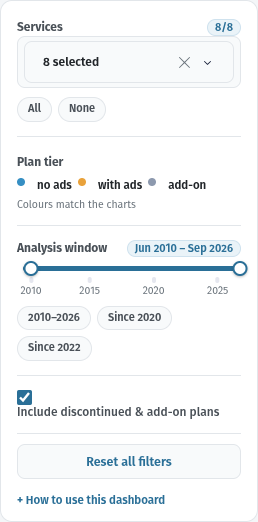
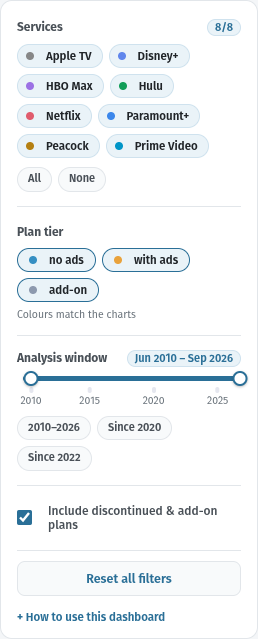
Replace the services dropdown with a direct checklist
The dropdown was the wrong control for eight fixed items: its trigger is a
CSS grid with hard-coded pixel columns, and the popup inherited a 200px
max-height with overflow:hidden, so four of the eight services (Netflix,
Paramount+, Peacock, Prime Video) were clipped and unreachable.

Eight chips now sit directly in the rail, each carrying the same brand
colour dot used in the charts, with All/None shortcuts beside them. The
checked state is solid brand dot + accent border; unchecked is a hollow
dot, dashed border and reduced opacity, so the selection is readable at a
glance without opening anything.

Dash renders each checklist option as <label class=dash-options-list-option>,
i.e. the chip label IS the option, so the wrapper reset had to avoid
!important and no display:contents - both of which silently stripped the
chip borders (and collapsed the switch-row label to zero height).

Removed ~90 lines of now-dead dropdown CSS, including the portal popup rules.

Changed region(s): [[0.062, 0.0307, 0.9612, 0.6743], [0.062, 0.705, 0.8992, 0.9195], [0.062, 0.9502, 0.6512, 0.9808]]

diff --git a/app/assets/style.css b/app/assets/style.css
@@ -105,16 +105,20 @@ body {
   padding: 0 !important;
   box-shadow: none !important;
 }
-.rail .dash-options-list-option,
+/* Dash renders every option as <label class="dash-options-list-option">, i.e. the
+   chip label IS the option. So the wrapper must be reset, but the label must
+   not be, otherwise the chips lose their own borders. .dash-options-list-option
+   therefore gets only background/padding reset here, and chips set their own
+   border on a more specific selector below. */
 .rail .dash-options-list-option-text {
   border-width: 0 !important;
   border-style: none !important;
   background: transparent !important;
   padding: 0 !important;
 }
-/* tier chips style their label; the option wrapper must not add a box */
-.tier-chips .dash-options-list-option,
-.switch-row .dash-options-list-option { display: contents; }
+
+/* The option <label> is the chip itself, so it must stay a real box.
+   (No display:contents here - it collapsed the switch-row label to 0 height.) */
 
 /* the native range inputs Dash renders are invisible but paint a white track */
 /* Dash overlays two native range inputs (one per handle) that paint a white
@@ -129,57 +133,55 @@ body {
 /* NB: use border-width:0 rather than `border: none`, because `none` leaves the
    computed width at `medium` (1px) and later !important rules then re-show it. */
 .rail .dash-checklist,
-.rail .dash-checklist-group,
-.rail .dash-dropdown-content,
-.rail .dash-dropdown-menu {
+.rail .dash-checklist-group {
   background: transparent !important;
   border-width: 0 !important;
   border-style: none !important;
   box-shadow: none !important;
 }
-.rail .dash-dropdown,
-.rail .dash-dropdown-wrapper {
-  background: var(--surface-2) !important;
-  border: 1px solid var(--border) !important;
-  border-radius: 8px !important;
-  box-shadow: none !important;
-  padding: 4px 6px;
+/* Services checklist — 8 fixed items, so show them all at once with the same
+   brand colour used in every chart. A dropdown would only hide them. */
+.service-checks {
+  display: flex; flex-wrap: wrap; gap: 6px; margin-top: 8px;
 }
-.rail .dash-dropdown:hover { border-color: var(--accent) !important; }
-/* the vertical scrollbar inside the multi-select pill area */
-/* ---------------------------------------------------------------
-   Services picker
-   Dash renders the trigger as a CSS grid with hard-coded pixel
-   columns (value 44px, count 73px, clear 16px, arrow 15px), so the
-   selected-value pills were squeezed into a 44px scrolling column.
-   There are only 8 services, so show a single summary line instead of
-   listing every pill; the full searchable list is one click away.
-   --------------------------------------------------------------- */
-.rail .dash-dropdown,
-.rail .dash-dropdown-wrapper { max-width: 100%; min-width: 0; }
-
-.rail .dash-dropdown-grid-container {
-  display: flex !important;
-  align-items: center;
-  gap: 8px;
-  grid-template-columns: none !important;
-  width: 100%;
+.service-checks label {
+  display: inline-flex; align-items: center; gap: 6px;
+  font-size: 11.5px; font-weight: 600; color: var(--text-muted);
+  background: var(--surface-2); border: 1px solid var(--border);
+  border-radius: 999px; padding: 4px 10px 4px 8px;
+  cursor: pointer; user-select: none; margin: 0;
+  transition: border-color 0.15s, color 0.15s, background 0.15s;
 }
-/* pills duplicate the "N selected" count, and never fit in 210px */
-.rail .dash-dropdown-value { display: none !important; }
-.rail .dash-dropdown-value-count {
-  flex: 1 1 auto;
+.service-checks input { display: none; }
+.service-checks label::before {
+  content: ""; width: 8px; height: 8px; border-radius: 50%;
+  background: var(--border-strong); flex: 0 0 auto;
+  transition: background 0.15s;
+}
+.service-checks label:hover { border-color: var(--accent); color: var(--text); }
+/* unchecked = clearly off: hollow dot, dashed border, muted text */
+.service-checks label:not(:has(input:checked)) {
+  border-style: dashed;
+  opacity: 0.72;
+}
+.service-checks label:not(:has(input:checked))::before {
   background: transparent !important;
-  color: var(--text) !important;
-  font-size: 12px;
-  font-weight: 600;
-  padding: 0;
-  white-space: nowrap;
-  overflow: hidden;
-  text-overflow: ellipsis;
+  border: 1.5px solid var(--text-muted);
+  box-sizing: border-box;
 }
-.rail .dash-dropdown-clear { flex: 0 0 auto; color: var(--text-muted) !important; }
-.rail .dash-dropdown-grid-container > svg { flex: 0 0 auto; }
+/* checked = solid brand dot, accent border, filled background */
+.service-checks label:has(input:checked) {
+  color: var(--text); border-color: var(--accent-border);
+  background: var(--accent-soft);
+}
+.service-checks label:nth-child(1):has(input:checked)::before { background: #878787; }
+.service-checks label:nth-child(2):has(input:checked)::before { background: #6086EC; }
+.service-checks label:nth-child(3):has(input:checked)::before { background: #9C71E4; }
+.service-checks label:nth-child(4):has(input:checked)::before { background: #119D58; }
+.service-checks label:nth-child(5):has(input:checked)::before { background: #E05C6D; }
+.service-checks label:nth-child(6):has(input:checked)::before { background: #3C87EB; }
+.service-checks label:nth-child(7):has(input:checked)::before { background: #B58012; }
+.service-checks label:nth-child(8):has(input:checked)::before { background: #0095C7; }
 
 /* quick-action chips */
 .quick { display: flex; flex-wrap: wrap; gap: 6px; margin-top: 9px; }
@@ -299,77 +301,6 @@ footer {
   margin-top: 26px; padding-top: 12px;
   border-top: 1px solid var(--border-strong);
   font-size: 11.5px; color: var(--text-muted); max-width: 1100px;
-}
-
-/* Dash 4 dropdown (dash-dropdown-* classes), dark theme */
-body.dark .dash-dropdown,
-body.dark .dash-dropdown-wrapper,
-body.dark .dash-dropdown-trigger,
-body.dark .dash-dropdown-value,
-body.dark .dash-dropdown-value-item {
-  background: var(--surface-2) !important;
-  color: var(--text) !important;
-  border-color: var(--border) !important;
-}
-body.dark .dash-dropdown-value-count {
-  background: var(--accent-soft) !important;
-  color: var(--text-dim) !important;
-}
-body.dark .dash-dropdown-clear { color: var(--text-muted) !important; }
-body.dark .dash-dropdown-content,
-body.dark .dash-dropdown-menu,
-body.dark .dash-dropdown-options,
-body.dark .dash-dropdown-option,
-body.dark .dash-dropdown-search-container,
-body.dark .dash-dropdown-search {
-  background: var(--surface-2) !important;
-  color: var(--text) !important;
-  border-color: var(--border) !important;
-}
-body.dark .dash-dropdown-option:hover,
-body.dark .dash-dropdown-option[aria-selected="true"] {
-  background: var(--accent-soft) !important;
-}
-
-/* Dash 4 dropdown popup. It renders in a portal at the end of <body>, so it is
-   NOT a descendant of .dash-dropdown and cannot be reached that way. It is
-   told apart from a Checklist (also role=listbox) by the .dash-dropdown-content
-   wrapper that only the popup has. */
-body.dark .dash-dropdown-content,
-.dash-dropdown-content {
-  background: var(--surface) !important;
-  border: 1px solid var(--border-strong) !important;
-  border-radius: 10px !important;
-  box-shadow: 0 10px 28px rgba(0, 0, 0, 0.45) !important;
-  padding: 6px !important;
-  overflow: hidden;
-}
-.dash-dropdown-content [role="listbox"] {
-  background: transparent !important;
-  border: none !important;
-  padding: 0 !important;
-}
-.dash-dropdown-content .dash-options-list-option,
-.dash-dropdown-content .dash-options-list-option-text {
-  background: transparent !important;
-  color: var(--text) !important;
-  border-width: 0 !important;
-  border-radius: 6px !important;
-  font-size: 12.5px !important;
-}
-.dash-dropdown-content .dash-options-list-option {
-  padding: 6px 9px !important;
-}
-.dash-dropdown-content .dash-options-list-option:hover,
-.dash-dropdown-content .dash-options-list-option[aria-selected="true"] {
-  background: var(--accent-soft) !important;
-}
-.dash-dropdown-search-container,
-.dash-dropdown-search {
-  background: var(--surface-2) !important;
-  color: var(--text) !important;
-  border-color: var(--border) !important;
-  border-radius: 6px !important;
 }
 
 /* Dash 4 range slider (dash-slider-* classes). The old rc-slider rules never

diff --git a/app/app.py b/app/app.py
@@ -81,8 +81,14 @@ app.layout = html.Div(className="page", children=[
                     html.Label("Services", htmlFor="services"),
                     html.Span(id="services-count", className="field-count"),
                 ]),
-                dcc.Dropdown(id="services", options=ALL_SERVICES, value=ALL_SERVICES,
-                             multi=True, placeholder="All services"),
+                # A direct checklist, not a dropdown: there are only 8 services,
+                # so a popup just hid options behind a scroll and a click.
+                dcc.Checklist(
+                    id="services",
+                    options=[{"label": s, "value": s} for s in ALL_SERVICES],
+                    value=ALL_SERVICES,
+                    className="service-checks",
+                ),
                 html.Div(className="quick", children=[
                     html.Button("All", id="svc-all", n_clicks=0, className="chip-btn"),
                     html.Button("None", id="svc-none", n_clicks=0, className="chip-btn"),
